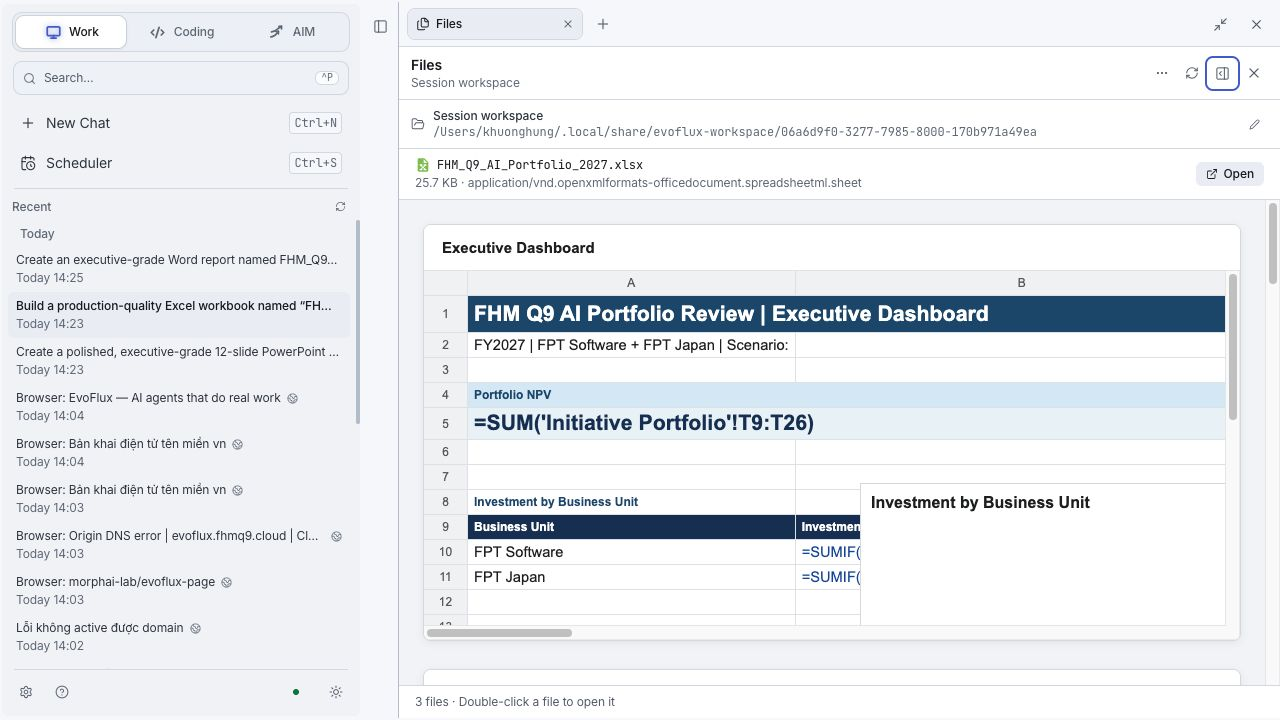
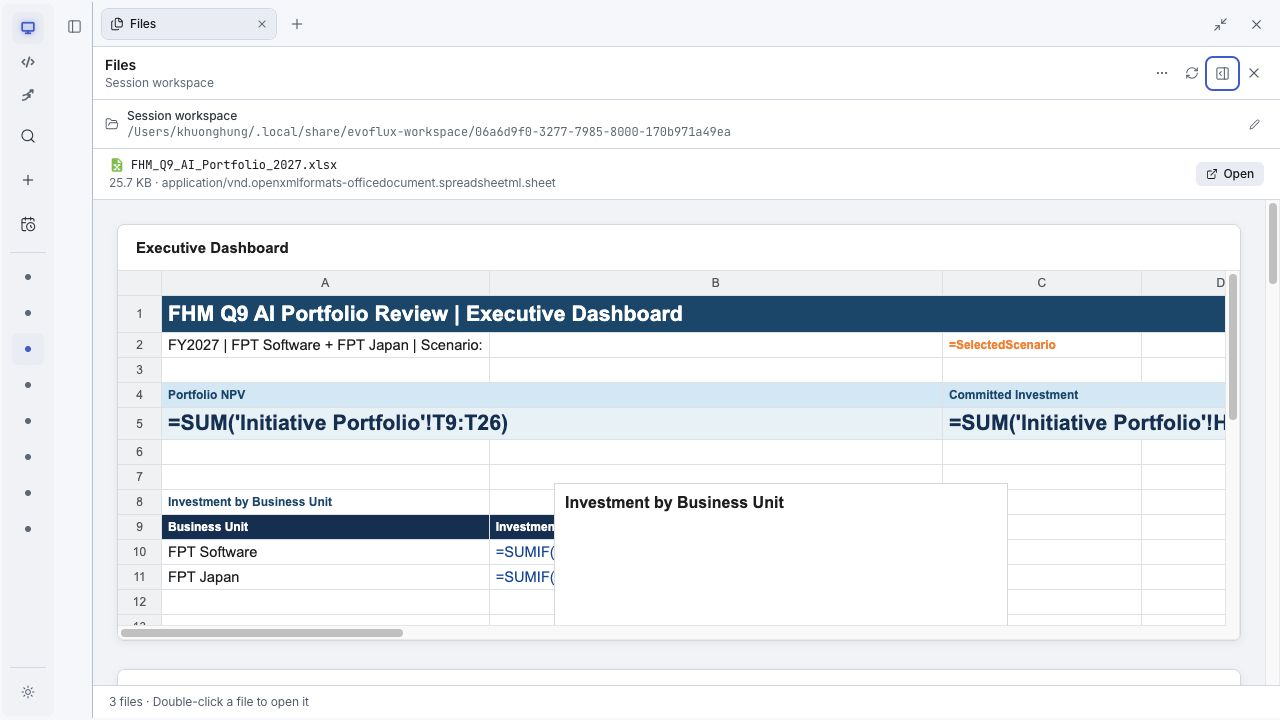
Polish Office showcase visuals

diff --git a/app/home-locales.tsx b/app/home-locales.tsx
@@ -36,6 +36,7 @@ const jaText: Record<string, string> = {
   "From a prompt to a board-ready artifact.": "プロンプトから、経営会議に出せる成果物へ。",
   "EvoFlux builds the actual editable file—not a wall of suggestions. Specialist workflows create the content, validate the structure, and visually inspect the result before delivery.": "EvoFluxが作るのは提案の羅列ではなく、実際に編集できるファイルです。専門ワークフローが内容を作成し、構造を検証し、納品前に見た目まで確認します。",
   "EvoFlux creating and previewing an executive PowerPoint deck": "エグゼクティブ向けPowerPointを作成・プレビューするEvoFlux",
+  "EvoFlux presentation mockup showing an executive AIM modernization deck": "エグゼクティブ向けAIMモダナイゼーション資料を表示するEvoFluxプレゼンテーションモックアップ",
   "Editable PPTX": "編集可能なPPTX",
   "01 · PRESENTATIONS": "01 · プレゼンテーション",
   "01 · DOCUMENTS": "01 · ドキュメント",

diff --git a/app/page.tsx b/app/page.tsx
@@ -176,7 +176,7 @@ export function HomePageContent({ locale = "en" }: { locale?: HomeLocale }) {
 
           <article className="office-card office-card-compact">
             <div className="office-art office-art-slides">
-              <img src={withBasePath("/screens/evoflux-office-powerpoint-light.png")} alt="EvoFlux creating and previewing an executive PowerPoint deck" loading="lazy" />
+              <img src={withBasePath("/illustrations/office-presentation-mockup.svg")} alt="EvoFlux presentation mockup showing an executive AIM modernization deck" loading="lazy" />
               <span className="office-artifact-badge"><i className="ppt" /> Editable PPTX</span>
             </div>
             <div className="office-card-copy">
